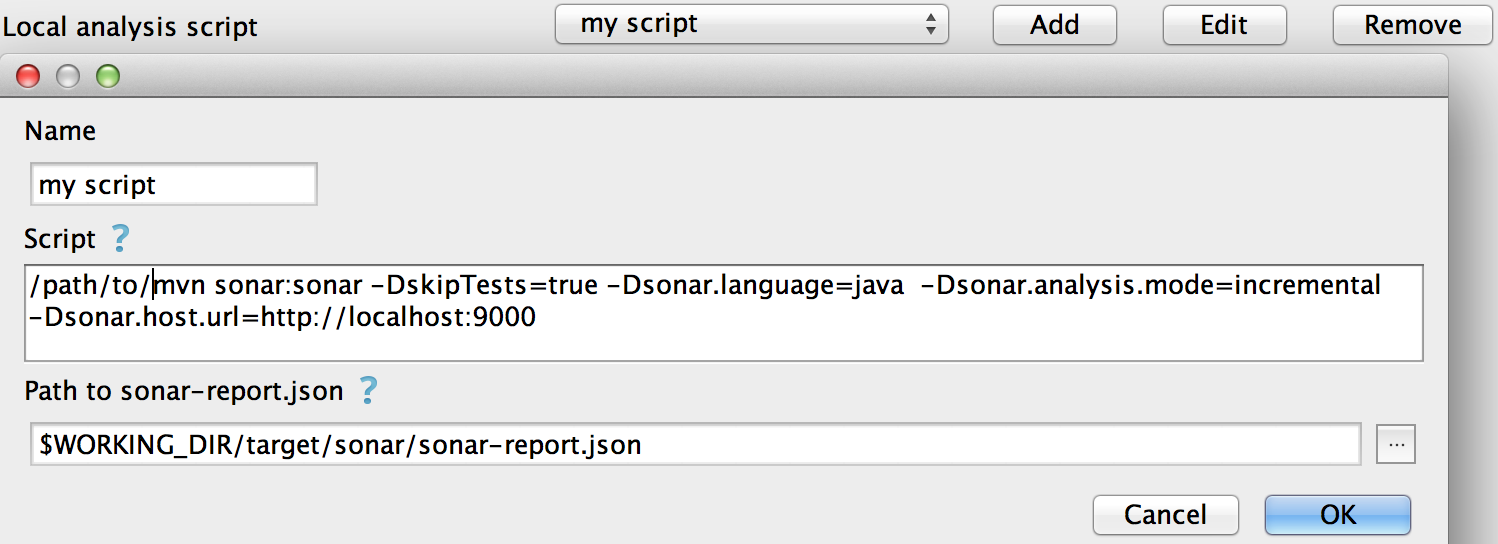
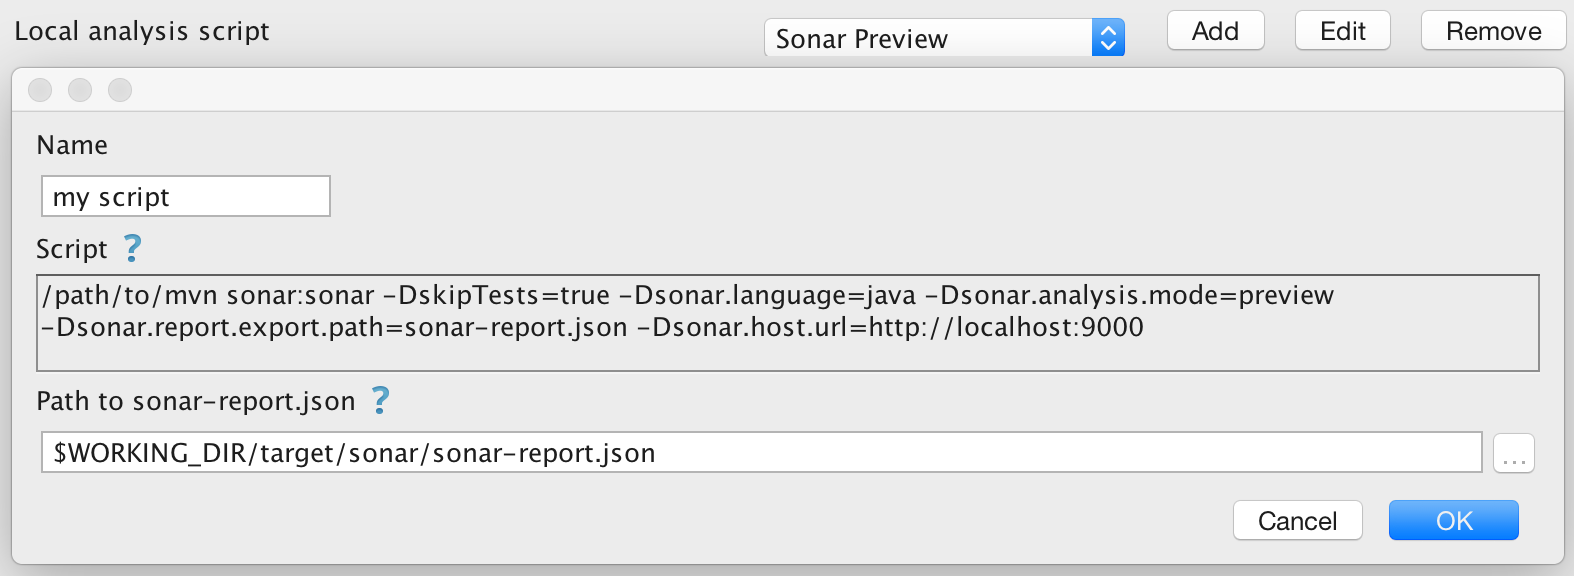
Upgrade Sonarqube version in documentation

Changed region(s): [[0.0, 0.0, 1.0, 1.0], [0.1842, 0.3438, 0.215, 0.375]]

diff --git a/README.md b/README.md
@@ -68,14 +68,10 @@ Before configuring the plugin, you need to understand how to run local analysis 
 Go to your preferred console and try to run depending on your project something like:
 
 ```
-mvn sonar:sonar -DskipTests=true -Dsonar.language=java  -Dsonar.analysis.mode=incremental -Dsonar.host.url=http://localhost:9000
+mvn sonar:sonar -DskipTests=true -Dsonar.language=java -Dsonar.analysis.mode=preview -Dsonar.report.export.path=sonar-report.json -Dsonar.host.url=$SONAR_HOST_URL
 ```
 
-or
-
-```
-sonar-runner -Dsonar.analysis.mode=incremental -Dsonar.issuesReport.html.enable=true -Dsonar.host.url=http://localhost:9000
-```
+**NOTE: `sonar.report.export.path` parameter is mandatory to generate analysis result**
 
 or
 ```
@@ -108,14 +104,14 @@ Go to `File -> Settings (Ctrl+Alt+S)-> SonarQube`.
 Click add and define:
 
 * a unique name, e.g. java-only
-* the script itself, e.g. sonar-runner -Dsonar.analysis.mode=incremental ...
+* the script itself, e.g. mvn sonar:sonar -Dsonar.analysis.mode=preview ...
 * path to the sonar-report.json
 
 A finished configuration can look like:
 ![alt text][localScriptConfigured]
 [localScriptConfigured]: https://raw.github.com/sonar-intellij-plugin/sonar-intellij-plugin/master/screenshots/local_script_configured.png "Example local script management"
 
-**NOTE: If command like "mvn" or "sonar-runner" does not work, you can use a full path instead: /path/to/mvn.**
+**NOTE: If command like "mvn" does not work, you can use a full path instead: /path/to/mvn.**
 
 #### Placeholders
 
@@ -141,7 +137,7 @@ For example in a multi module mvn project you can define:
 
 Script
 ```
-/path/to/mvn sonar:sonar -DskipTests=true -Dsonar.language=java  -Dsonar.analysis.mode=incremental -Dsonar.host.url=$SONAR_HOST_URL
+/path/to/mvn sonar:sonar -DskipTests=true -Dsonar.language=java -Dsonar.analysis.mode=preview -Dsonar.report.export.path=sonar-report.json -Dsonar.host.url=$SONAR_HOST_URL
 ```
 
 Path to sonar-report.json
@@ -158,7 +154,7 @@ working dir
 
 script
 ```
-/path/to/mvn sonar:sonar -DskipTests=true -Dsonar.language=java  -Dsonar.analysis.mode=incremental -Dsonar.host.url=http://localhost:9000
+/path/to/mvn sonar:sonar -DskipTests=true -Dsonar.language=java -Dsonar.analysis.mode=preview -Dsonar.report.export.path=sonar-report.json -Dsonar.host.url=$SONAR_HOST_URL
 ```
 
 path to sonar-report.json
@@ -175,7 +171,7 @@ working dir
 
 script
 ```
-/path/to/mvn sonar:sonar -DskipTests=true -Dsonar.language=java  -Dsonar.analysis.mode=incremental -Dsonar.host.url=http://localhost:9000
+/path/to/mvn sonar:sonar -DskipTests=true -Dsonar.language=java -Dsonar.analysis.mode=preview -Dsonar.report.export.path=sonar-report.json -Dsonar.host.url=$SONAR_HOST_URL
 ```
 
 path to sonar-report.json
@@ -221,7 +217,7 @@ possible contents of the `up_to_you.sh` script:
 #!/bin/bash
 export JAVA_HOME="/path/to/jdk1.8.0.jdk/Home/"
 export MAVEN_OPTS="-XX:MaxPermSize=128m"
-/path/to/mvn sonar:sonar -DskipTests=true -Djava.awt.headless=true -Dsonar.language=java -Dsonar.analysis.mode=incremental -Dsonar.host.url=$1 -Dsonar.profile=your_java_profile
+/path/to/mvn sonar:sonar -DskipTests=true -Dsonar.language=java -Dsonar.analysis.mode=preview -Dsonar.report.export.path=sonar-report.json -Dsonar.host.url=$1 -Dsonar.profile=your_java_profile
 ```
 
 Tip: Omit the `sonar.language` parameter if you have multiple languages in your project (e.g. Java and Groovy).
